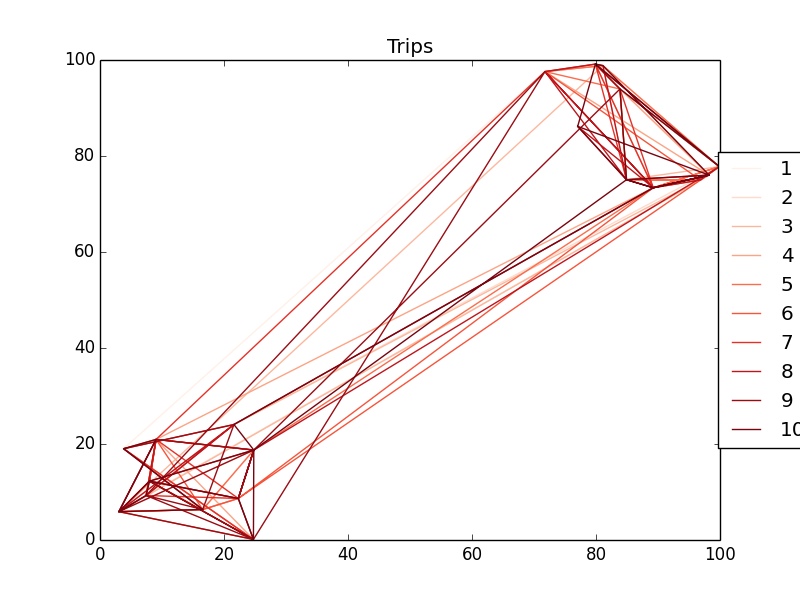
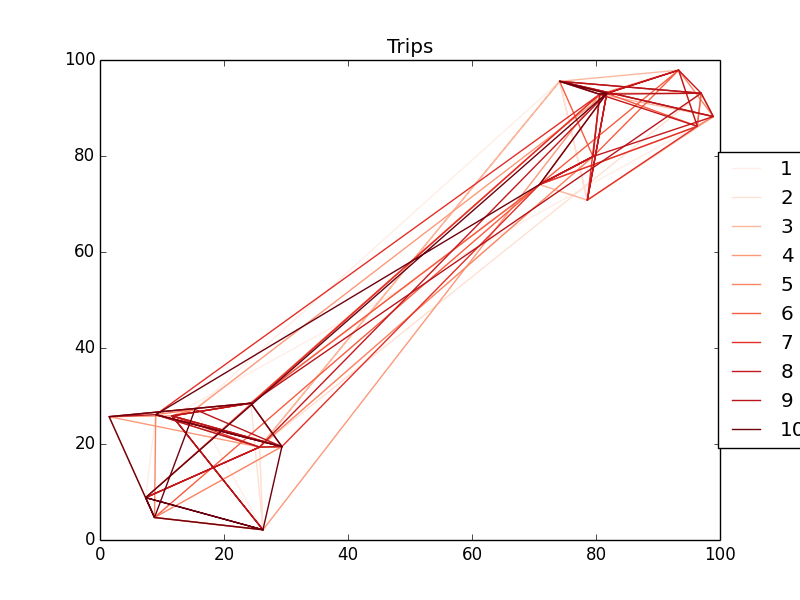
synchronize dist&tick

Changed region(s): [[0.125, 0.09, 0.9062, 0.9]]

diff --git a/MapGenerator.py b/MapGenerator.py
@@ -5,7 +5,7 @@ class MapGenerator:
     # m : the number of stations
     # stations : locations of stations [tuple of 2 real numbers and name (x, y, name)] == map info
     # dists : matrix which has the distance info
-    def __init__(self, m = 20, typ = 'nomal'):
+    def __init__(self, m = 20, typ = 'nomal', upp = True):
         self.m = m
         if typ == 'nomal' :
             self.stations = []
@@ -34,6 +34,7 @@ class MapGenerator:
                                             +(self.stations[j][1]-self.depot[1])**2))
 
         self.dists = self.getDists()
+        if upp : self.upper() # all dist be synchronized whit tick
         pass
 
     def __str__(self):
@@ -62,3 +63,14 @@ class MapGenerator:
     def getLocDist(self, loc, x):
         return math.sqrt((self.stations[x][0] - loc[0]) ** 2
                          + (self.stations[x][1] - loc[1]) ** 2)
+
+    def upper(self):
+        for distt in self.dists :
+            i = 0
+            while i < len(distt) :
+                distt[i] = math.ceil(distt[i])
+                i += 1
+        j =0
+        while j < len(self.distdepot) :
+            self.distdepot[j] = math.ceil(self.distdepot[j])
+            j += 1

diff --git a/Simulator.py b/Simulator.py
@@ -10,7 +10,7 @@ from Shuttle import Shuttle
 class Simulator:
     # as time goes by simulate situation
     def __init__(self, m = 20, n = 100, T = 1000, shutN = 10, shutC = 5, offP = 0.6, \
-                 MapType = 'clust', ReqType = 'CS2', gaN = 5):
+                 MapType = 'clust', ReqType = 'CS2', gaN = 9, upp = True):
         self.m = m  # number of stations
         self.n = n  # number of requests
         self.shutN = shutN  # number of shuttles
@@ -19,7 +19,7 @@ class Simulator:
         self.offP = offP # ratio of offline requests
         self.gaN = gaN # number of GA steps
 
-        self.MG = MapGenerator(self.m, MapType)
+        self.MG = MapGenerator(self.m, MapType, upp)
         self.RG = RequestGenerator(self.MG, ReqType, self.n, self.T, self.offP)
         self.DG = DataGenerator(self.MG, self.RG, shutN, gaN)
         self.requests = self.RG.requests[:]

diff --git a/GAOperator.py b/GAOperator.py
@@ -87,9 +87,9 @@ class GAOperator:
                 if(self.costs[i] > self.costs[i+1]) :
                     print("{}% improved | {}".format((1-(self.costs[i+1]/self.costs[i]))*100, len(self.genes[0].rejects)))
 
-                    # when better than the norm, stop generating
+                # when no reject, stop generating
                 if(len(self.genes[0].rejects) < 1) :
-                    print("there are no reject".format(len(self.genes[0].rejects)))
+                    print("WOW there are no reject!!".format(len(self.genes[0].rejects)))
                     break
 
         print("\nresults.....")
